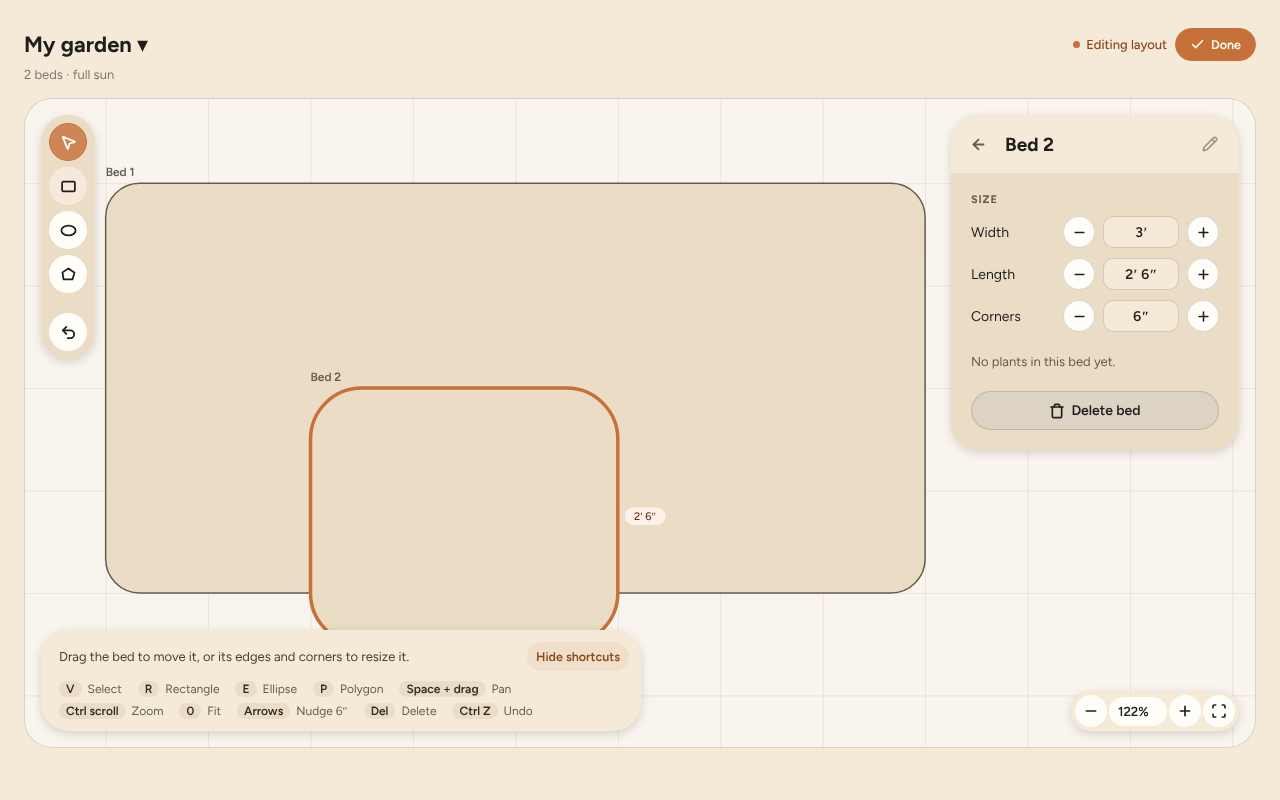
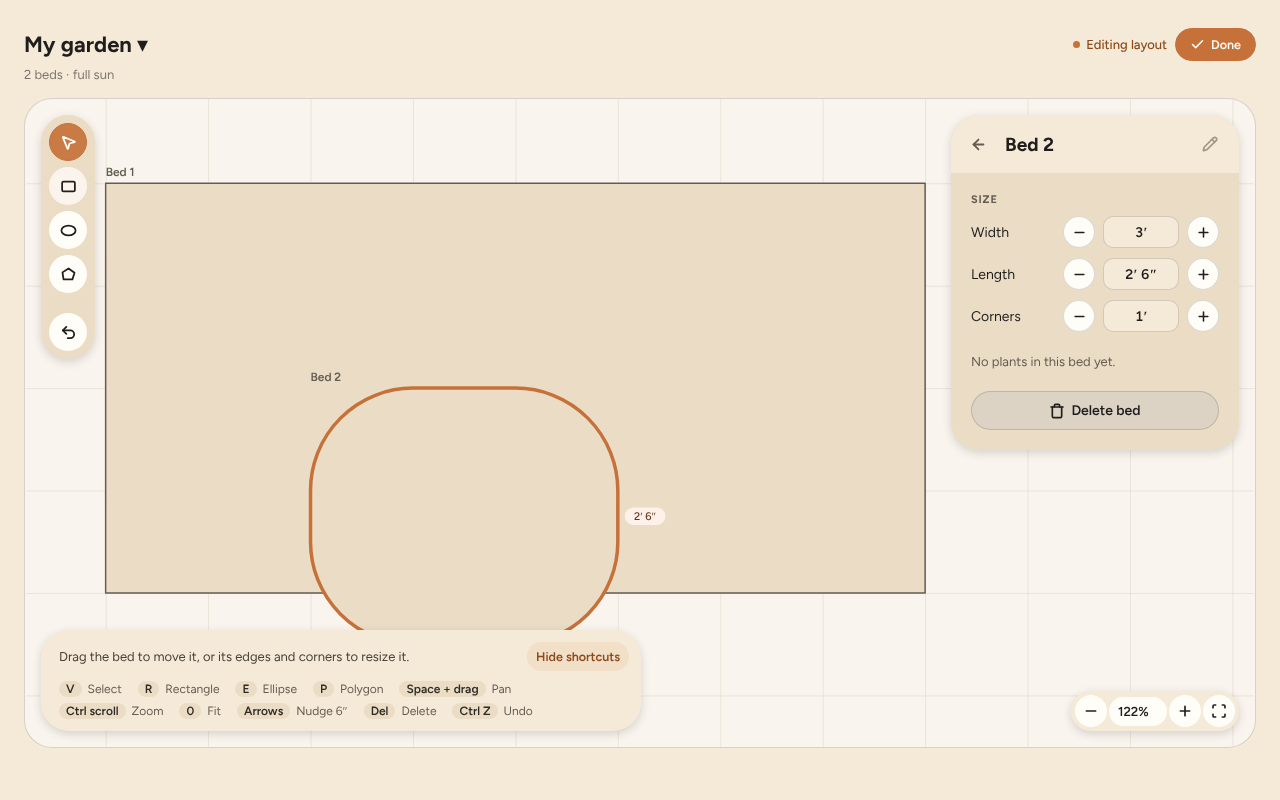
Default bed corner radius to 0 (square corners)
Claude-Session: https://claude.ai/code/session_0195D7TuAGECNdhf5bERvnqa

diff --git a/src/utils/layout.test.ts b/src/utils/layout.test.ts
@@ -197,12 +197,17 @@ describe('relocatePlants', () => {
   });
 
   it('treats a plant cut off by the new rounded corner as outside', () => {
-    const b = bed();
+    const b = bed({ cornerRadiusIn: 4 });
     const next = resizeBedTo(b, 60, 48, { sx: 1, sy: 0 });
     // On the new right edge but in the corner square, beyond the corner's curve.
     const { outsideIds } = relocatePlants(b, next, [plant('corner', 60, 0.2)]);
-    expect(BED_CORNER_RADIUS_IN).toBeGreaterThan(0.2);
     expect(outsideIds).toEqual(['corner']);
+  });
+
+  it('keeps a plant in the corner of a bed with square corners (the default)', () => {
+    const b = bed();
+    const next = resizeBedTo(b, 60, 48, { sx: 1, sy: 0 });
+    expect(relocatePlants(b, next, [plant('corner', 60, 0.2)]).outsideIds).toEqual([]);
   });
 
   it('passes other beds’ plants through untouched (same object)', () => {
@@ -345,8 +350,9 @@ describe('boxBetween', () => {
 });
 
 describe('drawnCornerRadius', () => {
-  it('uses the standard radius for a bed with none of its own', () => {
-    expect(drawnCornerRadius({ widthIn: 96, heightIn: 48 })).toBe(BED_CORNER_RADIUS_IN);
+  it('is square for a bed with no radius of its own', () => {
+    expect(BED_CORNER_RADIUS_IN).toBe(0);
+    expect(drawnCornerRadius({ widthIn: 96, heightIn: 48 })).toBe(0);
   });
 
   it('uses the bed\'s own radius, including none at all', () => {
@@ -355,7 +361,7 @@ describe('drawnCornerRadius', () => {
   });
 
   it('never curves more than half the short side', () => {
-    expect(drawnCornerRadius({ widthIn: 96, heightIn: 6 })).toBe(3);
+    expect(drawnCornerRadius({ widthIn: 96, heightIn: 6, cornerRadiusIn: 10 })).toBe(3);
     expect(drawnCornerRadius({ widthIn: 96, heightIn: 48, cornerRadiusIn: 24 })).toBe(24);
     expect(drawnCornerRadius({ widthIn: 96, heightIn: 48, cornerRadiusIn: 25 })).toBe(24);
   });

diff --git a/src/utils/layout.ts b/src/utils/layout.ts
@@ -6,8 +6,8 @@ import { isInsideOutline, type Outline, type Point } from './geometry';
 export const LAYOUT_SNAP_IN = 6;
 /** No bed side may be shorter than this, in inches. */
 export const MIN_BED_SIDE_IN = 12;
-/** Rectangular beds are rounded by this much unless given a radius; plant centers stay inside the curve. */
-export const BED_CORNER_RADIUS_IN = 4;
+/** Rectangular beds are square-cornered unless given a radius; plant centers stay inside any curve. */
+export const BED_CORNER_RADIUS_IN = 0;
 /** The planting view's fixed scale, and the layout editor's 100% zoom. */
 export const PLANTING_PX_PER_INCH = 7;
 
